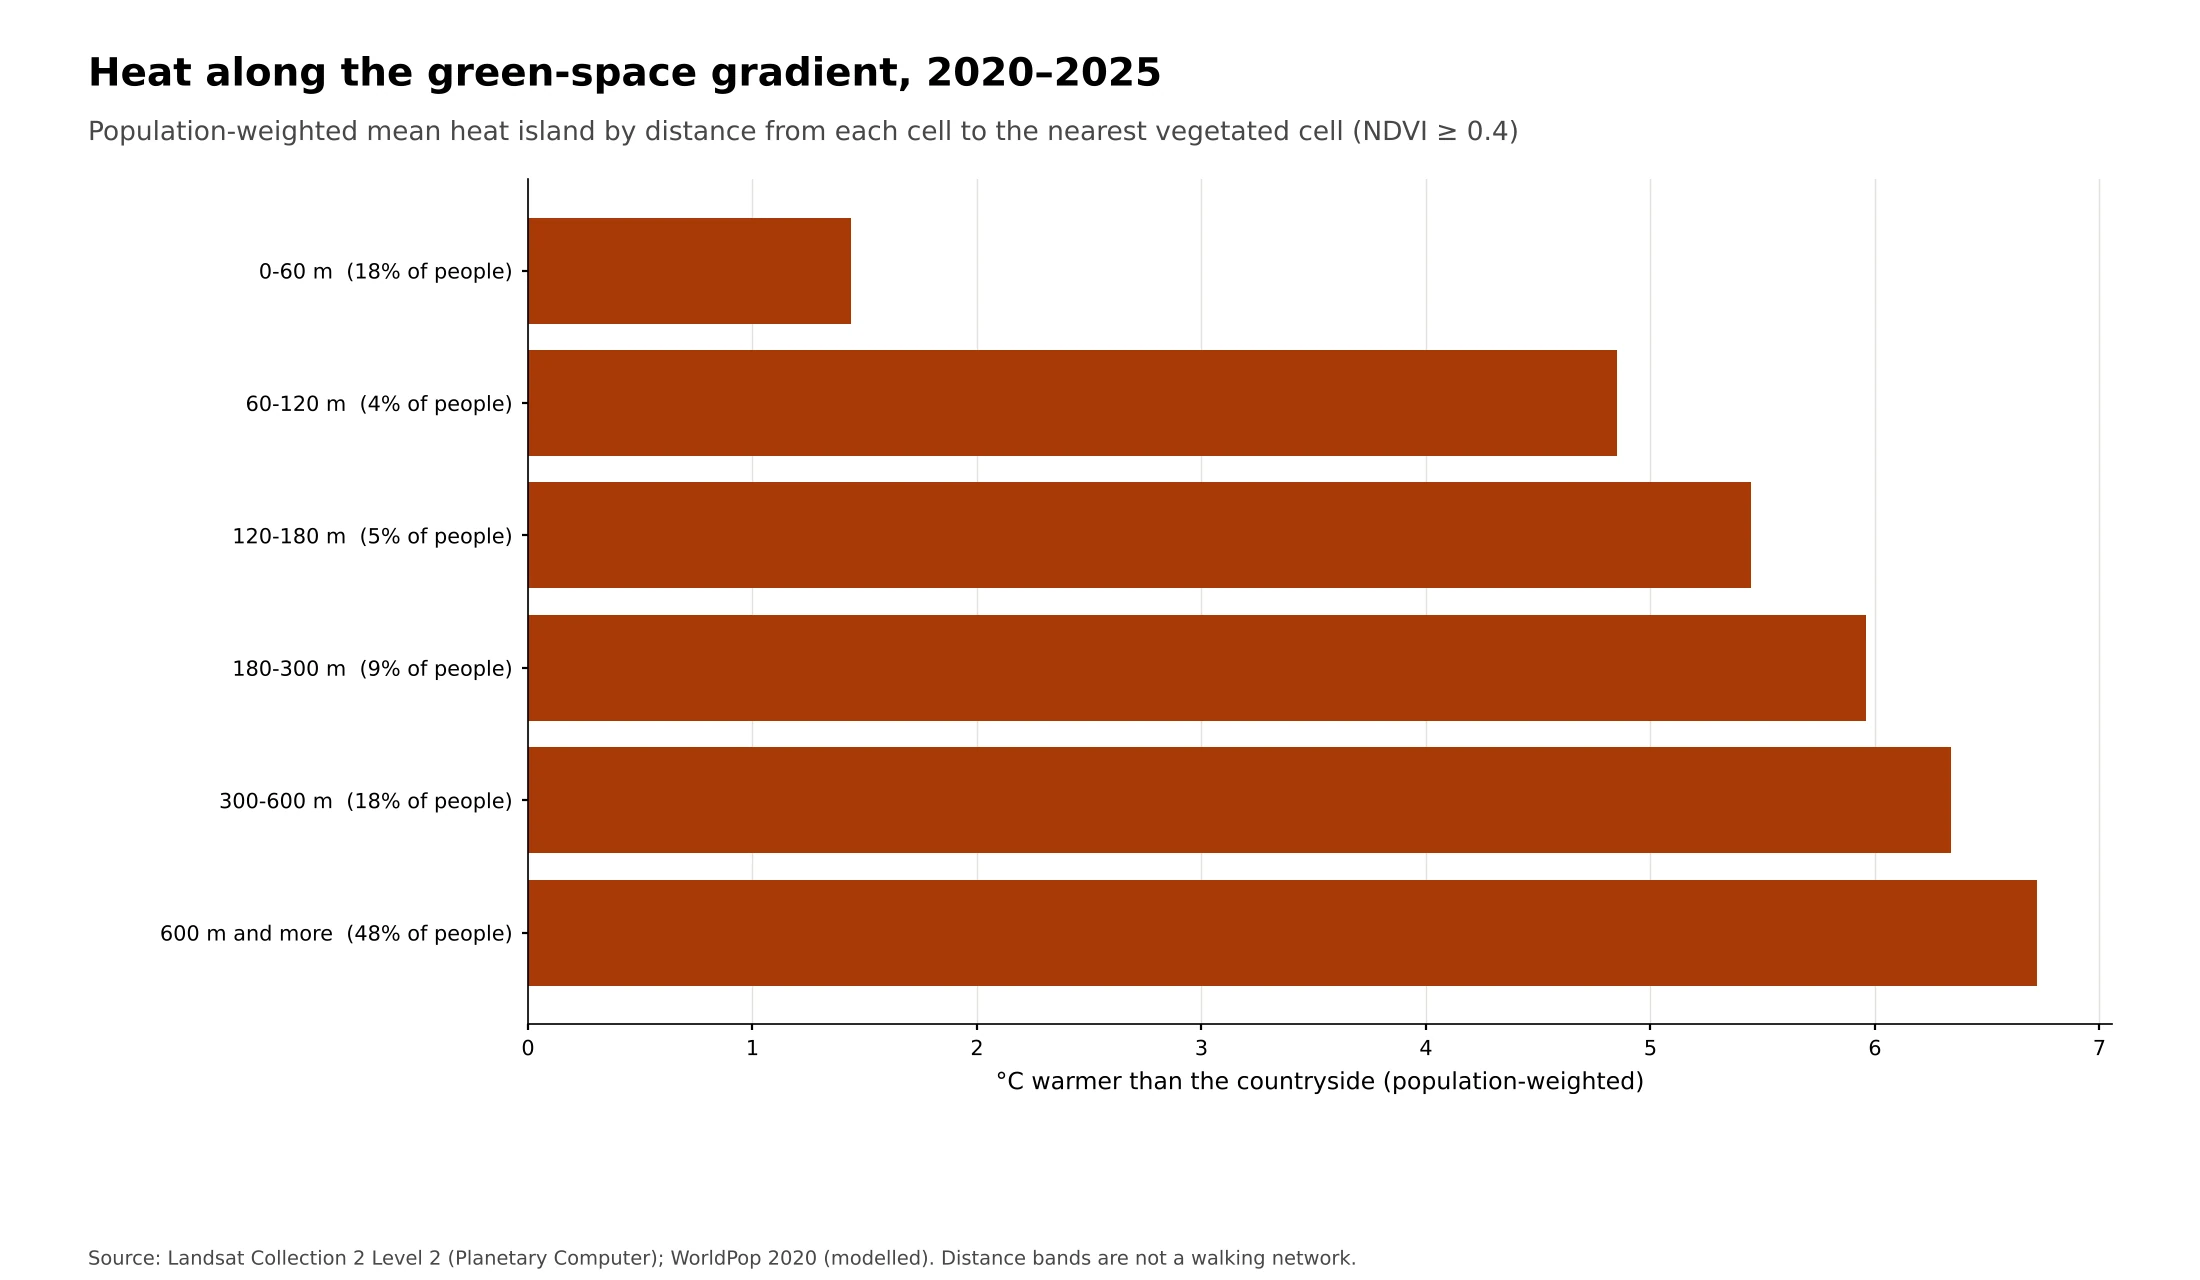
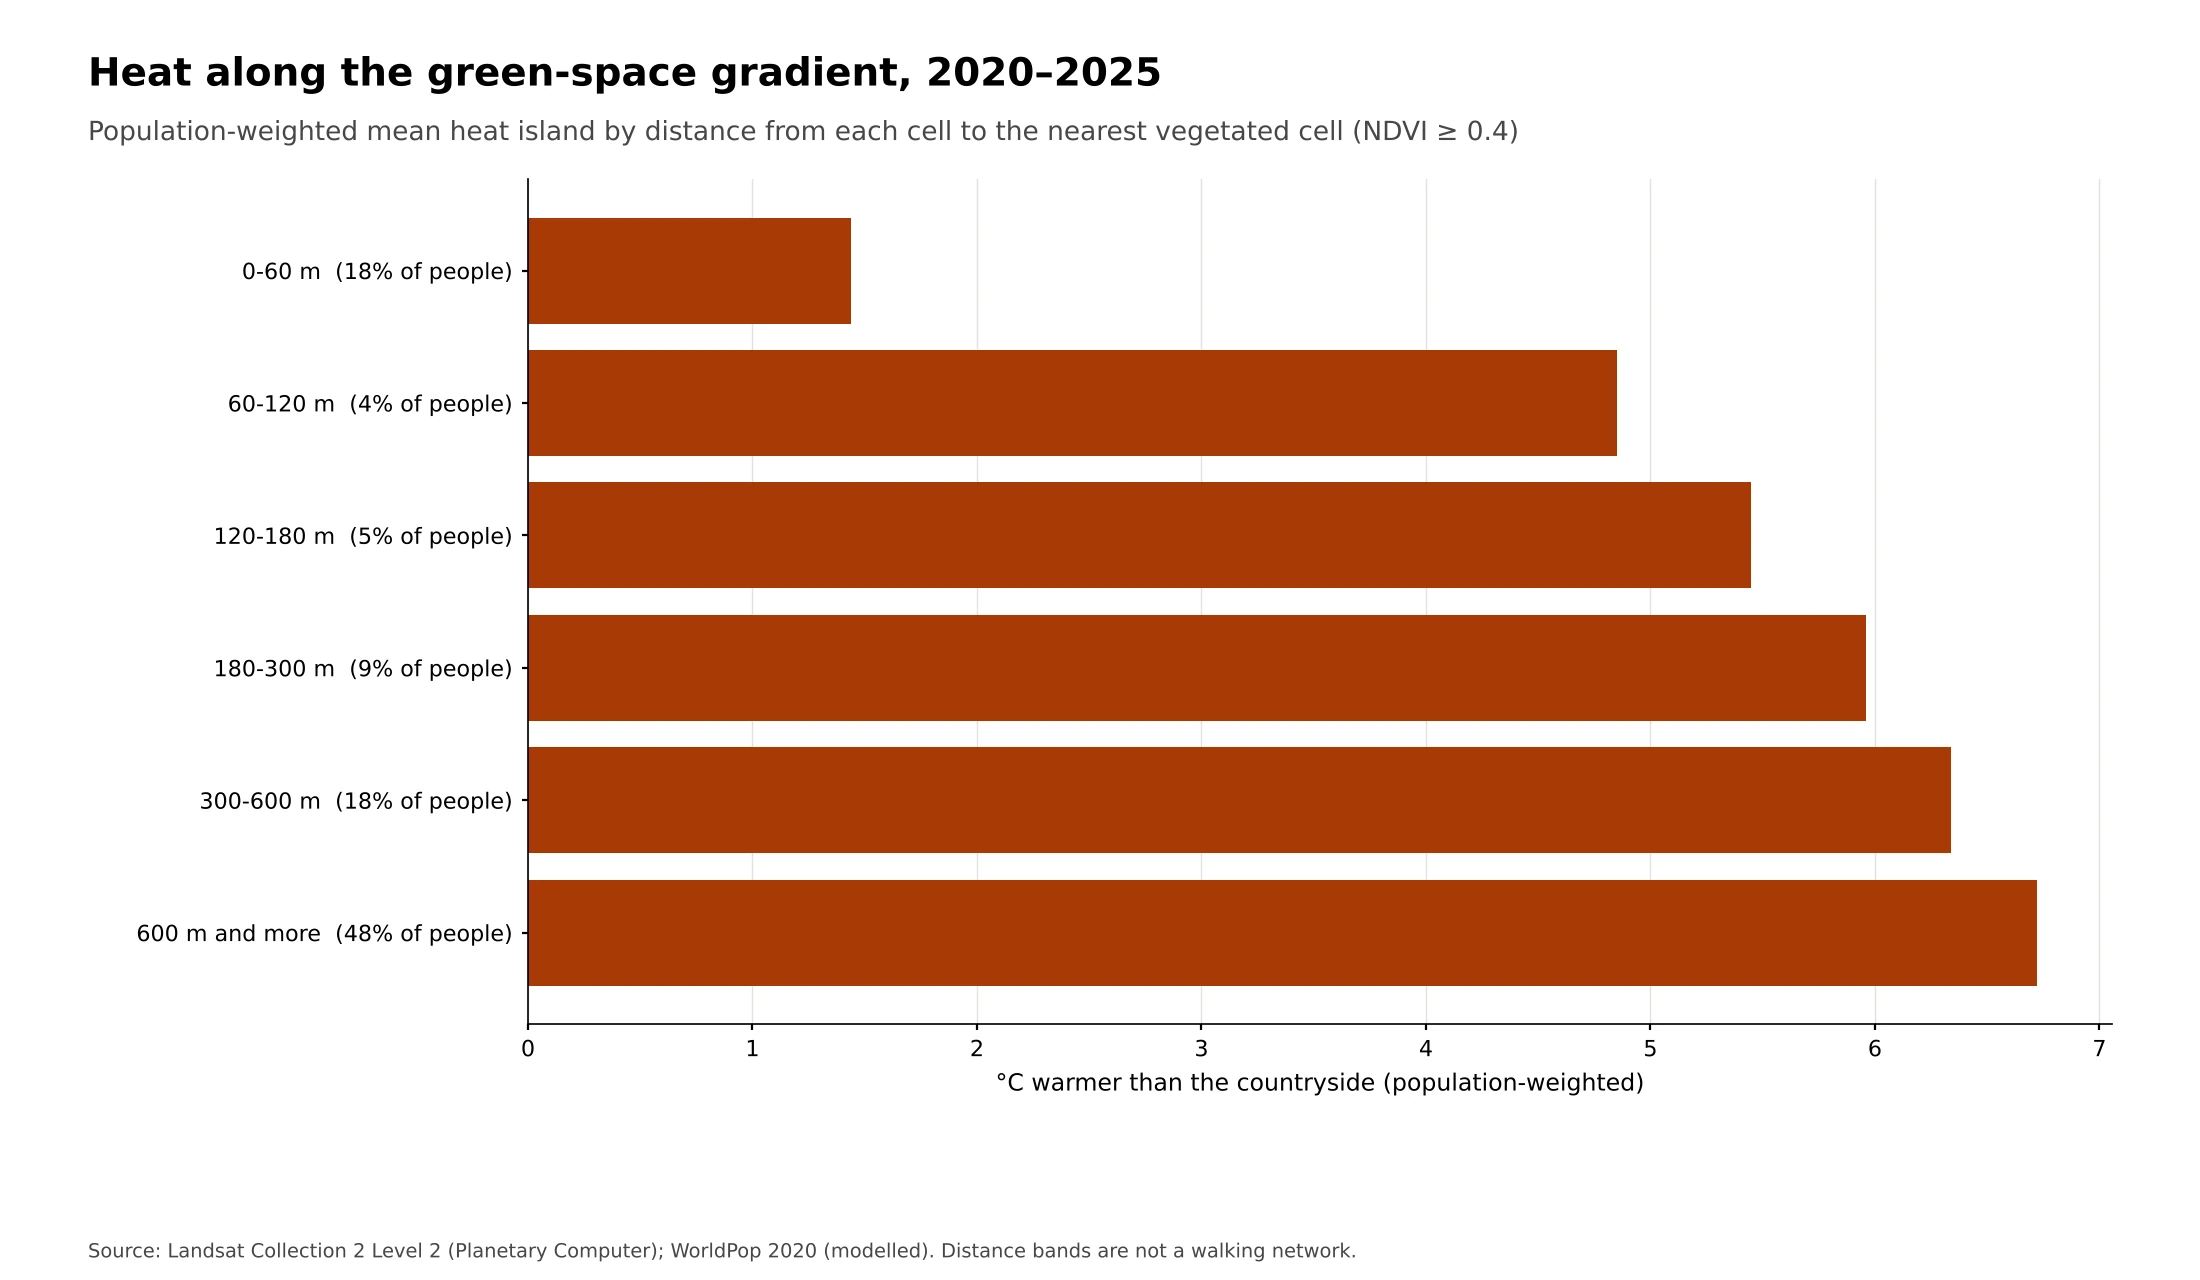
Render phone versions of the map figures
Adds a narrow version with larger text for each one-panel map and the two bar
charts, saved as *_phone.webp. Desktop versions keep their title and subtitle.

diff --git a/scripts/render_maps.py b/scripts/render_maps.py
@@ -135,26 +135,26 @@ class Base:
         im = ax.imshow(a, extent=self.extent, cmap=cmap, norm=norm, interpolation="nearest", zorder=3)
         return im
 
-    def scalebar(self, ax, km=20):
+    def scalebar(self, ax, km=20, fs=7):
         x0, x1, y0, y1 = self.view
         H = y1 - y0
         bx, by = x1 - (x1 - x0) * 0.045 - km * 1000, y1 - H * 0.12
         for i in range(2):
             ax.add_patch(Rectangle((bx + i * km * 500, by), km * 500, H * 0.018, facecolor=INK if i == 0 else "white", edgecolor=INK, lw=0.6, zorder=6))
         for i, v in enumerate((0, km // 2, km)):
-            ax.text(bx + i * km * 500, by + H * 0.035, str(v), ha="center", fontsize=7, color=INK, zorder=6)
-        ax.text(bx + km * 1000 + 1500, by, "km", fontsize=7, color=INK, va="bottom", zorder=6)
+            ax.text(bx + i * km * 500, by + H * 0.035, str(v), ha="center", fontsize=fs, color=INK, zorder=6)
+        ax.text(bx + km * 1000 + 1500, by, "km", fontsize=fs, color=INK, va="bottom", zorder=6)
         nx, ny = bx - 6500, y1 - H * 0.20
         ax.add_patch(MplPolygon([[nx, ny + H * 0.09], [nx - 1500, ny], [nx, ny + H * 0.025], [nx + 1500, ny]], closed=True, facecolor=INK, zorder=6))
         ax.text(nx, ny + H * 0.10, "N", ha="center", va="bottom", fontsize=8, fontweight="bold", zorder=6)
 
-    def labels(self, ax, names=("Alimosho", "Ikeja", "Eti-Osa", "Ikorodu", "Epe", "Badagry", "Ibeju Lekki", "Ojo", "Kosofe")):
+    def labels(self, ax, names=("Alimosho", "Ikeja", "Eti-Osa", "Ikorodu", "Epe", "Badagry", "Ibeju Lekki", "Ojo", "Kosofe"), size=6.3):
         for f, s in zip(self.lgas["features"], self.shapes):
             n = f["properties"]["lga_name"]
             if n in names:
                 from shapely.geometry import shape
                 pt = shape(s).representative_point()
-                ax.text(pt.x, pt.y, n, fontsize=6.3, ha="center", va="center", color=INK, zorder=7,
+                ax.text(pt.x, pt.y, n, fontsize=size, ha="center", va="center", color=INK, zorder=7,
                         path_effects=[pe.withStroke(linewidth=2.2, foreground="white")])
 
     def credit(self, fig, h, source):
@@ -243,11 +243,46 @@ def pct(v):
     return "<1%" if 0 < v < 0.5 else f"{v:.0f}%"
 
 
+PHONE_W = 4.6          # inches; a phone shows this at about 360 px, so 10 pt text is about 11 CSS px
+PHONE_LGA_PT = 8
+PHONE_LGA_NAMES = ("Alimosho", "Ikorodu", "Epe", "Badagry", "Ibeju Lekki", "Ojo", "Eti-Osa")   # fewer, to avoid overlaps at phone size
+
+
+def phone_single(B, name, arr, cmap, norm, label, ticks, extend, source):
+    """Phone version of a one-panel map: no title or subtitle (the caption carries them), larger text.
+
+    The desktop version keeps its title and subtitle; this one is shown below 760 px via <picture>."""
+    import textwrap
+    aspect = (B.view[3] - B.view[2]) / (B.view[1] - B.view[0])
+    w = PHONE_W
+    map_h = 0.96 * w * aspect
+    h = 0.10 + map_h + 1.85
+    fig = plt.figure(figsize=(w, h), dpi=150)
+    ax = fig.add_axes([0.02, 1.85 / h, 0.96, map_h / h])
+    B.frame(ax)
+    ax.tick_params(labelsize=8)
+    im = B.raster(ax, arr, cmap, norm); B.boundaries(ax)
+    B.labels(ax, names=PHONE_LGA_NAMES, size=PHONE_LGA_PT); B.scalebar(ax, fs=7)
+    cax = fig.add_axes([0.04, 1.05 / h, 0.92, 0.22 / h])
+    cb = fig.colorbar(im, cax=cax, orientation="horizontal", extend=extend, ticks=ticks)
+    cb.outline.set_linewidth(0.4); cb.ax.tick_params(labelsize=10, length=2)
+    cb.set_label("\n".join(textwrap.wrap(label, 48)), fontsize=10, color=INK, labelpad=3)
+    cb.ax.xaxis.set_label_position("top")
+    for k, (col, txt) in enumerate(((WATER, "Water (not analysed)"), (NODATA, "No clear observation"))):
+        x = 0.04 + k * 0.48
+        fig.patches.append(Rectangle((x, 0.55 / h), 0.03, 0.16 / h, transform=fig.transFigure, facecolor=col, edgecolor="#9a9a9a", lw=0.4))
+        fig.text(x + 0.04, 0.63 / h, txt, fontsize=9, color=INK2, va="center")
+    fig.text(0.04, 0.10 / h, "\n".join(textwrap.wrap(f"Source: {source}. {CRS_NOTE}.", 60)), fontsize=8, color=INK2, va="bottom", linespacing=1.3)
+    return save(fig, name + "_phone")
+
+
 def single(B, name, title, sub, arr, cmap, norm, label, ticks=None, extend="neither", source=LS):
     fig, (ax,), h = B.figure(title, sub)
     im = B.raster(ax, arr, cmap, norm); B.boundaries(ax); B.labels(ax); B.scalebar(ax)
     B.colorbar(fig, im, h, label, ticks, extend); B.credit(fig, h, source)
-    return save(fig, name)
+    path = save(fig, name)
+    phone_single(B, name, arr, cmap, norm, label, ticks, extend, source)
+    return path
 
 
 def triple(B, name, title, sub, key, cmap, norm, label, ticks=None, extend="neither"):
@@ -392,45 +427,65 @@ def lga_values_map(B, name, title, sub, values, cmap, norm, label, ticks, extend
                   source="LGA boundaries (FAO GAUL 2015); Landsat surface heat 2020–2025; WorldPop 2020 (modelled)")
 
 
-def chart_bars(name, title, sub, labels, series, xlabel, foot):
-    """Horizontal bar chart; series = list of (values, colour, legend label)."""
-    fig = plt.figure(figsize=(11, 6.4), dpi=150)
-    h = 6.4
-    fig.text(0.04, 1 - 0.28 / h, title, fontsize=14, fontweight="bold", va="top")
-    fig.text(0.04, 1 - 0.60 / h, sub, fontsize=9.5, color=INK2, va="top")
-    ax = fig.add_axes([0.24, 0.2, 0.72, 0.66])
+def chart_bars(name, title, sub, labels, series, xlabel, foot, phone=False):
+    """Horizontal bar chart; series = list of (values, colour, legend label).
+
+    phone=True draws a narrow version with larger text and wrapped labels; it is saved as name + "_phone"."""
+    import textwrap
+    if phone:
+        fig = plt.figure(figsize=(PHONE_W, 4.9), dpi=150)
+        fig.text(0.04, 0.975, "\n".join(textwrap.wrap(title, 34)), fontsize=11, fontweight="bold", va="top", color=INK)
+        ax = fig.add_axes([0.40, 0.22, 0.56, 0.62])
+        fs_y, fs_x, fs_leg, fs_foot = 8.5, 9, 9, 7.5
+        labels = ["\n".join(textwrap.wrap(x, 24)) for x in labels]
+        xlabel = "\n".join(textwrap.wrap(xlabel, 34))
+        foot = "\n".join(textwrap.wrap(foot, 70))
+        out = name + "_phone"
+    else:
+        fig = plt.figure(figsize=(11, 6.4), dpi=150)
+        h = 6.4
+        fig.text(0.04, 1 - 0.28 / h, title, fontsize=14, fontweight="bold", va="top")
+        fig.text(0.04, 1 - 0.60 / h, sub, fontsize=9.5, color=INK2, va="top")
+        ax = fig.add_axes([0.24, 0.2, 0.72, 0.66])
+        fs_y, fs_x, fs_leg, fs_foot = 8, 8.5, 7.5, 7
+        out = name
     y = np.arange(len(labels)); bh = 0.8 / len(series)
     for k, (vals, col, lab) in enumerate(series):
         ax.barh(y + (k - (len(series) - 1) / 2) * bh, vals, height=bh, color=col, label=lab)
-    ax.set_yticks(y); ax.set_yticklabels(labels, fontsize=8); ax.invert_yaxis()
-    ax.set_xlabel(xlabel, fontsize=8.5); ax.tick_params(labelsize=7.5, length=2)
+    ax.set_yticks(y); ax.set_yticklabels(labels, fontsize=fs_y); ax.invert_yaxis()
+    ax.set_xlabel(xlabel, fontsize=fs_x); ax.tick_params(labelsize=fs_y, length=2)
     for sp in ("top", "right"):
         ax.spines[sp].set_visible(False)
     ax.grid(axis="x", color="#e2e1dc", lw=0.5); ax.set_axisbelow(True)
     if len(series) > 1:
-        fig.legend(*ax.get_legend_handles_labels(), ncol=len(series), fontsize=7.5, frameon=False, loc="lower left", bbox_to_anchor=(0.04, 0.075))
-    fig.text(0.04, 0.012, foot, fontsize=7, color=INK2)
-    return save(fig, name)
+        fig.legend(*ax.get_legend_handles_labels(), ncol=1 if phone else len(series), fontsize=fs_leg, frameon=False,
+                   loc="lower left", bbox_to_anchor=(0.04, 0.075))
+    fig.text(0.04, 0.012 if not phone else 0.02, foot, fontsize=fs_foot, color=INK2, va="bottom", linespacing=1.3)
+    return save(fig, out)
 
 
 def map_landcover_heat(X):
     rows = [(v["name"], v) for k, v in sorted(X["landcover"].items(), key=lambda kv: -kv[1]["population_share"]) if v["population_share"] > 0.0005]
     labels = [f"{n}  ({v['area_share'] * 100:.0f}% of area, {v['population_share'] * 100:.0f}% of people)" for n, v in rows]
-    return chart_bars("m21_landcover_heat", "Heat island by land cover, 2020–2025",
-                      "Median surface heat island of each cell, by ESA WorldCover 2021 class; cells with at least 3 clear passes",
-                      labels, [([v["median_suhi_c"] for _, v in rows], "#d9500b", "Median heat island, °C")],
-                      "°C warmer than the countryside (median cell)",
-                      "Source: ESA WorldCover 2021; Landsat Collection 2 Level 2 (Planetary Computer). Associations only: land cover and built-up density are not separated.")
+    args = ("m21_landcover_heat", "Heat island by land cover, 2020–2025",
+            "Median surface heat island of each cell, by ESA WorldCover 2021 class; cells with at least 3 clear passes",
+            labels, [([v["median_suhi_c"] for _, v in rows], "#d9500b", "Median heat island, °C")],
+            "°C warmer than the countryside (median cell)",
+            "Source: ESA WorldCover 2021; Landsat Collection 2 Level 2 (Planetary Computer). Associations only: land cover and built-up density are not separated.")
+    chart_bars(*args, phone=True)
+    return chart_bars(*args)
 
 
 def chart_distance_bands(X):
     bands = list(X["distance_bands"].items())
     labels = [f"{k}  ({v['population_share'] * 100:.0f}% of people)" for k, v in bands]
-    return chart_bars("m22_distance_heat", "Heat along the green-space gradient, 2020–2025",
-                      "Population-weighted mean heat island by distance from each cell to the nearest vegetated cell (NDVI ≥ 0.4)",
-                      labels, [([v["pop_weighted_mean_suhi_c"] for _, v in bands], "#a93a08", "Population-weighted mean heat island, °C")],
-                      "°C warmer than the countryside (population-weighted)",
-                      "Source: Landsat Collection 2 Level 2 (Planetary Computer); WorldPop 2020 (modelled). Distance bands are not a walking network.")
+    args = ("m22_distance_heat", "Heat along the green-space gradient, 2020–2025",
+            "Population-weighted mean heat island by distance from each cell to the nearest vegetated cell (NDVI ≥ 0.4)",
+            labels, [([v["pop_weighted_mean_suhi_c"] for _, v in bands], "#a93a08", "Population-weighted mean heat island, °C")],
+            "°C warmer than the countryside (population-weighted)",
+            "Source: Landsat Collection 2 Level 2 (Planetary Computer); WorldPop 2020 (modelled). Distance bands are not a walking network.")
+    chart_bars(*args, phone=True)
+    return chart_bars(*args)
 
 
 def map_lga_beyond(B, X):
